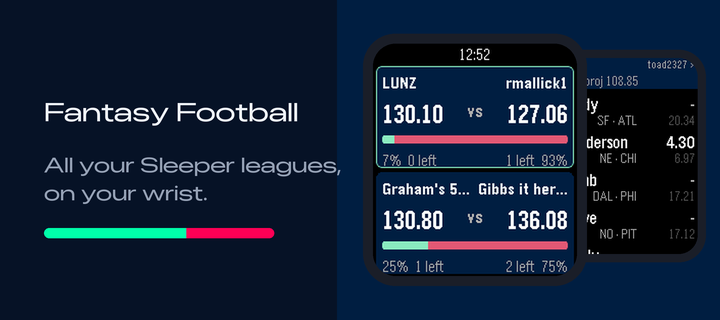
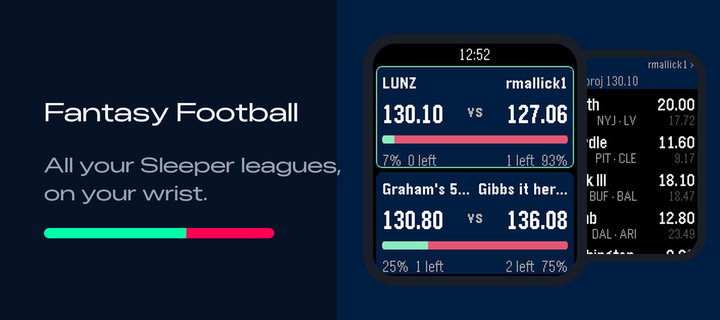
Release 1.0.1
Version bump, release notes, and the two lineup screenshots regenerated --
they were from 24 Oct and still showed the canned PPR projections that this
release replaces.

The pebble CLI turns out to have emu-button, so Select can be driven from the
command line. That is how the lineup views were captured, and it means the
detail screens are no longer only reachable by hand. Both now agree with the
Sleeper app player by player, including the opponent's side: Maye 21.28,
Allen 17.16, Pollard 15.03, Smith-Njigba 26.73.

Banner regenerated, since it embeds the detail screenshot.

Still stale and not part of this release: the one-, three- and five-league
layout screenshots, which came from mock data that is no longer in the repo.

diff --git a/STORE.md b/STORE.md
@@ -48,6 +48,13 @@ glance to your wrist.
 ## Category
 daily
 
+## Release notes (1.0.1)
+Projections now follow your league's own scoring rules, so totals match the
+Sleeper app instead of a generic PPR estimate. Defenses change the most. Win
+odds were retuned to agree with Sleeper, the win bar now reads left to right
+as your own chances, and a matchup no longer calls itself final while games
+are still being played.
+
 ## Release notes (1.0.0)
 First release. Sleeper support, live scoring, projection-based win odds, and a
 lineup view with your opponent a button press away.
